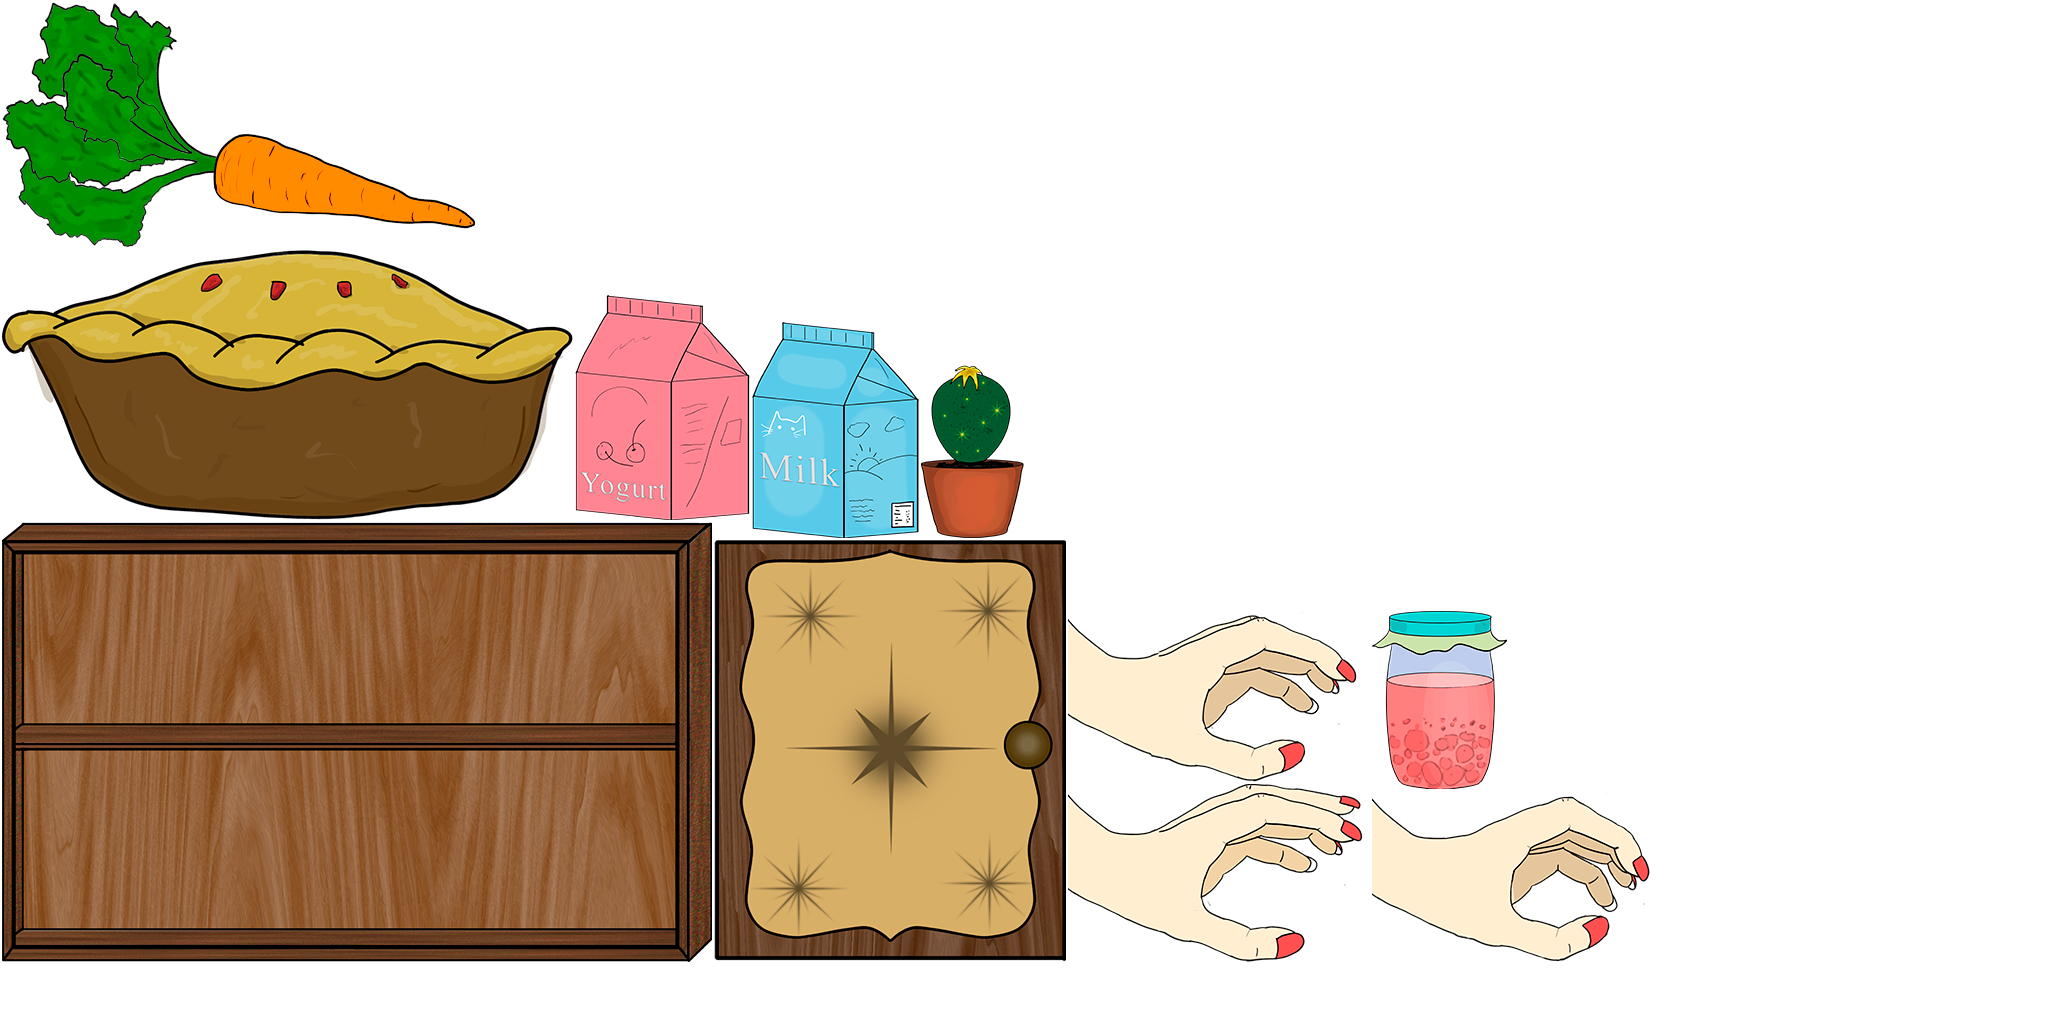
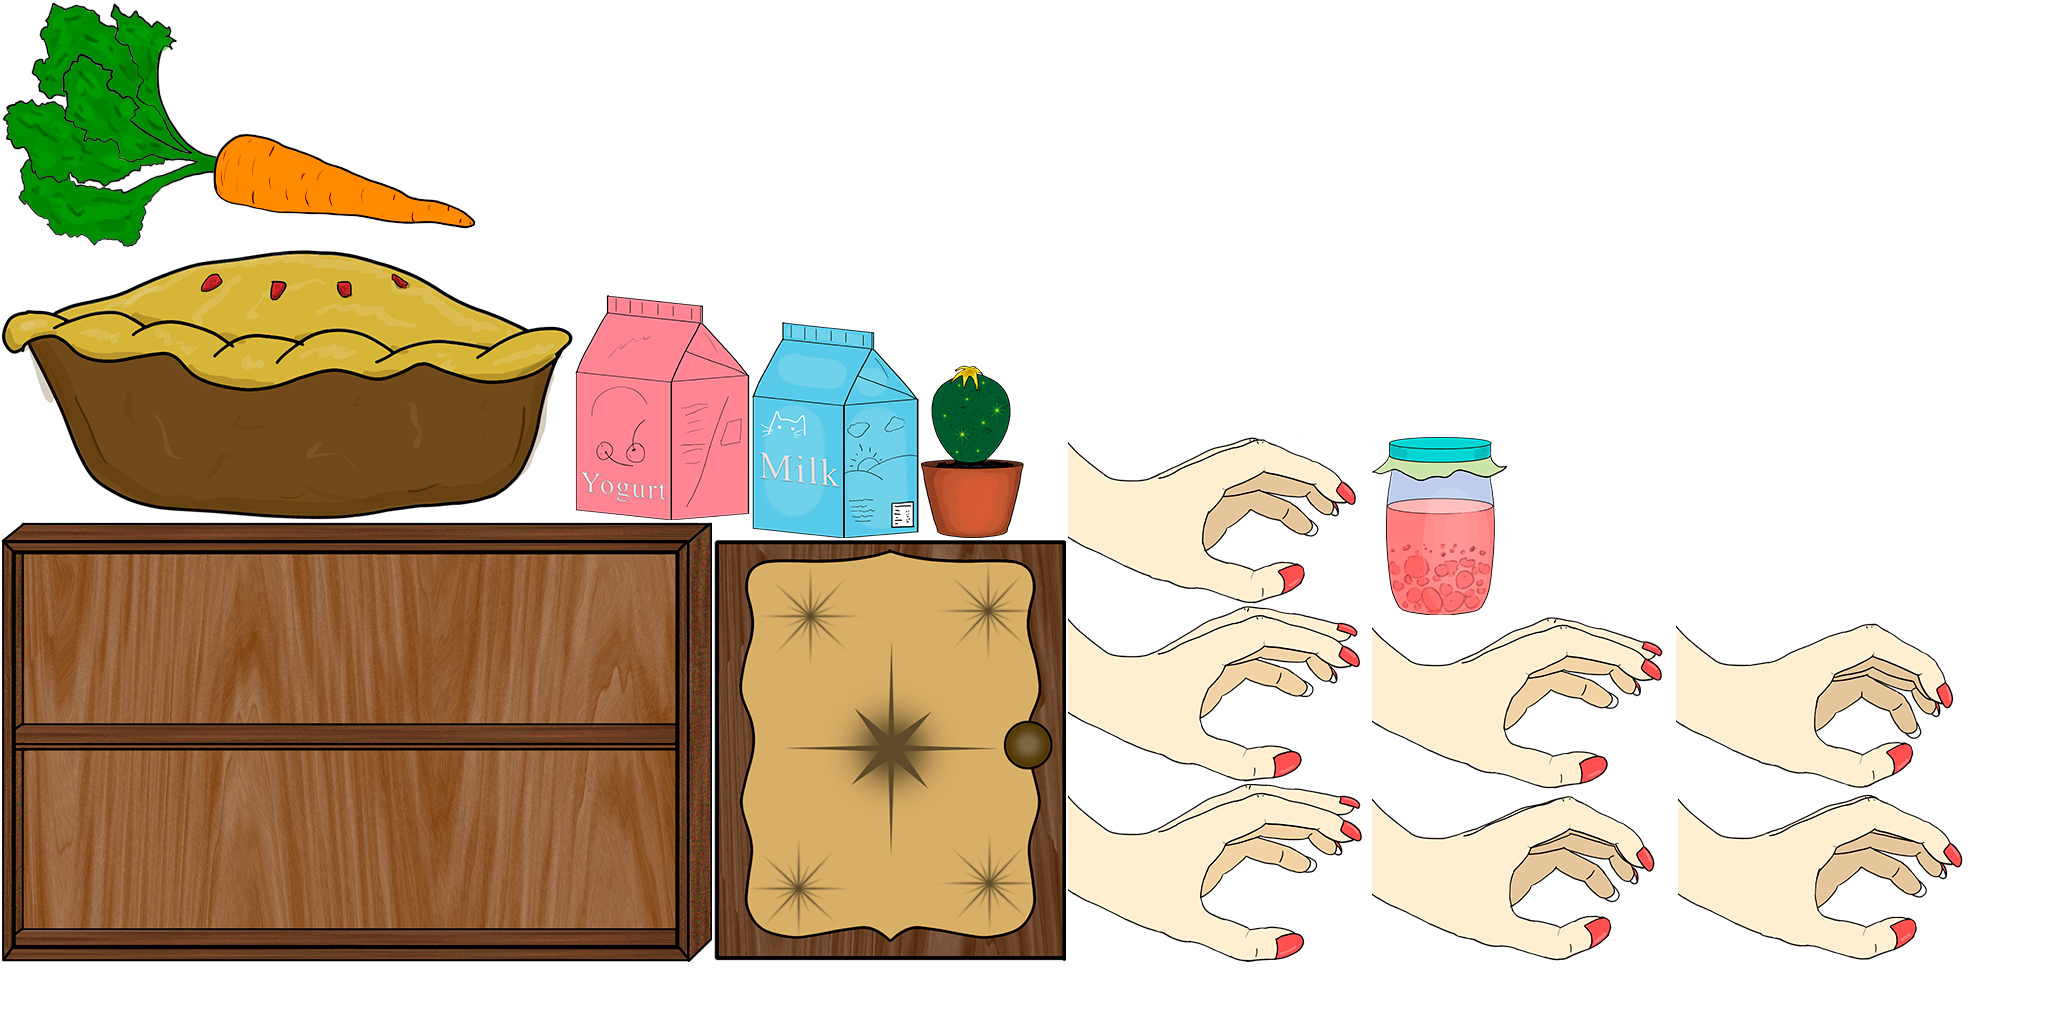
(fix) fix cookie jump
- add more sprites for hand
- change animation
- clean code

diff --git a/core/src/com/mygdx/game/actors/Cookie.kt b/core/src/com/mygdx/game/actors/Cookie.kt
@@ -4,7 +4,6 @@ import com.badlogic.gdx.assets.AssetManager
 import com.badlogic.gdx.graphics.Color
 import com.badlogic.gdx.graphics.g2d.Animation
 import com.badlogic.gdx.graphics.g2d.Batch
-import com.badlogic.gdx.math.Matrix3
 import com.badlogic.gdx.math.Rectangle
 import com.badlogic.gdx.math.Vector2
 import com.badlogic.gdx.scenes.scene2d.Actor
@@ -13,7 +12,6 @@ import com.mygdx.game.data.Assets
 import com.mygdx.game.data.Descriptors
 import com.mygdx.game.impl.Physical
 import com.mygdx.game.impl.Scrollable
-import com.mygdx.game.world.GameWorld
 
 class Cookie(manager : AssetManager,
         startX: Float = ScreenConfig.widthGame/2,
@@ -21,7 +19,7 @@ class Cookie(manager : AssetManager,
 
     val position = Vector2(startX, startY)
     private val velocity = Vector2(0f, 0f)
-    private val velocityJump = 20f
+    private val velocityJump = 50f
 
     private val acceleration = Vector2(0f, -10f)
 
@@ -29,7 +27,7 @@ class Cookie(manager : AssetManager,
     private val jumpUpAnimation = texture.findRegion(Assets.CookieAtlas.JUMP_UP)
     private val jumpDownAnimation = texture.findRegion(Assets.CookieAtlas.JUMP_DOWN)
     private val runRegions = texture.findRegions(Assets.CookieAtlas.RUN)
-    private val runAnimation = Animation(0.1f, runRegions, Animation.PlayMode.LOOP)
+    private val runAnimation = Animation(0.1f, runRegions, Animation.PlayMode.LOOP_PINGPONG)
 
     private val maxJumpHeight = 200
 
@@ -40,11 +38,15 @@ class Cookie(manager : AssetManager,
 
     private val rectangle : Rectangle = Rectangle()
 
-    enum class State{ RUN, JUMP, JUMPING,  FALL, FALLING }
+    enum class State{ RUN, JUMP, FALL}
 
-    private val gravity = -5f
+    private val gravity = -50f
 
-    private var state = State.RUN
+    var state = State.RUN
+
+    private var jumpFlag = false
+    private var startJumpY = 0f
+    private var ground = startY
 
     init {
         updateCoordinates()
@@ -60,39 +62,40 @@ class Cookie(manager : AssetManager,
     override fun act(delta: Float) {
         super.act(delta)
         runTime += delta
-        velocity.add(0f, gravity * runTime)
-        when(state){
-            State.FALL -> {
-                //runTime = 0f
-/*                velocity.add(0f, -velocityJump * delta)
-                if(isUnderGround()){
-                    state = State.RUN
-                    runTime = 0f
-                    velocity.y = 0f
-                    position.y = startY
-                }*/
-            }
-            State.FALLING -> {
-
-            }
-            State.JUMP -> {
-                velocity.add(0f, velocityJump)
-                if(isCeiling()) state = State.JUMPING
-            }
-            State.JUMPING -> {
-                if(isCeiling()) state = State.FALL
-            }
-            State.RUN -> {velocity.y = 0f}
-            }
-
-
+        updateGravity()
+        updateActorState()
         position.add(velocity.cpy().scl(delta))
         updateCoordinates()
         rectangle.set(position.x, position.y, width, height)
     }
 
-    private fun isGround() = position.y == startY
-    private fun isUnderGround() = position.y < startY
+    private fun updateGravity(){
+        velocity.add(0f, gravity * runTime)
+    }
+
+    private fun updateActorState(){
+        when(state){
+            State.FALL -> {
+                if(isGround()) resetState()
+            }
+            State.JUMP -> {
+                if(jumpFlag && isMaxJump().not()){
+                    velocity.add(0f, velocityJump)
+                } else state = State.FALL
+            }
+            State.RUN -> velocity.y = 0f
+        }
+    }
+
+    private fun resetState(){
+        state = State.RUN
+        runTime = 0f
+        velocity.y = 0f
+        position.y = ground
+    }
+
+    private fun isGround() = position.y <= ground
+    private fun isMaxJump() = position.y >= startJumpY + maxJumpHeight
     private fun isCeiling() = position.y >= maxJumpHeight
 
     override fun draw(batch: Batch?, parentAlpha: Float) {
@@ -110,8 +113,18 @@ class Cookie(manager : AssetManager,
     fun isRun() = state == State.RUN
     fun isJump() = state == State.JUMP
 
-    fun onClick() {
-        if(state != State.JUMP) state = State.JUMP
+    fun startJumpForce() {
+        if(state == State.RUN){
+            startJumpY = y
+            state = State.JUMP
+            runTime = 0f
+            jumpFlag = true
+        }
+    }
+
+    fun endJumpForce() {
+        jumpFlag = false
+        startJumpY = 0f
     }
 
     override fun stopMove() {
@@ -122,9 +135,31 @@ class Cookie(manager : AssetManager,
         isStopAnimation = false
     }
 
-    fun resetY(){
-        //if(isJump().not()) y = startY
+    fun checkCollides(obj : RandomTableItem){
+        if(collides(obj)){
+             if(isHigherThen(obj)){
+                 setOnTop(obj)
+            }else{
+                 againstThe(obj)
+            }
+        }
+        if(isAfter(obj) && state == State.RUN){
+            state = State.FALL
+        }
     }
+
+    private fun isAfter(obj : RandomTableItem) : Boolean{
+        val tailObj = obj.x + obj.width
+        return x >= tailObj && x < tailObj + 30f
+    }
+
+    private fun getTailX() = x + width
+    private fun isHigherThen(obj : RandomTableItem) = y > obj.y + obj.height - 30
+    private fun setOnTop(obj : RandomTableItem) {
+        resetState()
+        position.y = obj.y + obj.height
+    }
+    private fun againstThe(obj : RandomTableItem) {position.x = obj.x - width}
 
     override fun getBoundsRect() = rectangle
 }

diff --git a/core/src/com/mygdx/game/actors/RandomTableItem.kt b/core/src/com/mygdx/game/actors/RandomTableItem.kt
@@ -2,8 +2,10 @@ package com.mygdx.game.actors
 
 import com.badlogic.gdx.Gdx
 import com.badlogic.gdx.assets.AssetManager
+import com.badlogic.gdx.graphics.Color
 import com.badlogic.gdx.graphics.g2d.Batch
 import com.badlogic.gdx.graphics.g2d.TextureAtlas
+import com.badlogic.gdx.graphics.glutils.ShapeRenderer
 import com.badlogic.gdx.math.Rectangle
 import com.badlogic.gdx.scenes.scene2d.Actor
 import com.mygdx.game.data.Assets
@@ -35,6 +37,7 @@ class RandomTableItem(manager : AssetManager,
 
     var callbackGoThrough : Callback? = null
     var isScored = false
+    val shape = ShapeRenderer()
 
     init {
         updateCoordinates()
@@ -46,7 +49,7 @@ class RandomTableItem(manager : AssetManager,
 
         checkDistance()
         if(startAct){
-            checkCollides()
+            cookie.checkCollides(this)
             updateCoordinates()
             scroller.update(delta)
             setBound()
@@ -60,16 +63,6 @@ class RandomTableItem(manager : AssetManager,
                 callback!!.call()
             }
         }
-    }
-
-    private fun checkCollides(){
-        if(collides(cookie)){
-            if(cookie.y <= y + height){
-                cookie.position.x = x - cookie.width
-            }else{
-                cookie.y = y + height
-            }
-        }else cookie.resetY()
     }
 
     private fun checkDistance(){
@@ -98,15 +91,14 @@ class RandomTableItem(manager : AssetManager,
     }
 
     private fun getRandomItemRegion(): TextureAtlas.AtlasRegion{
-        return when(rand.nextInt(9)){
-            1 -> texture.findRegion(Assets.EnvironmentAtlas.GLASS)
-            2 -> texture.findRegion(Assets.EnvironmentAtlas.ORANGE)
-            3 -> texture.findRegion(Assets.EnvironmentAtlas.LIME)
-            4 -> texture.findRegion(Assets.EnvironmentAtlas.APPLE)
-            5 -> texture.findRegion(Assets.EnvironmentAtlas.CARROT)
-            6 -> texture.findRegion(Assets.EnvironmentAtlas.PIE)
-            7 -> texture.findRegion(Assets.EnvironmentAtlas.MILK_BOX)
-            8 -> texture.findRegion(Assets.EnvironmentAtlas.YOGURT_BOX)
+        return when(rand.nextInt(4)){
+            1 -> texture.findRegion(Assets.EnvironmentAtlas.LIME)
+            2 -> texture.findRegion(Assets.EnvironmentAtlas.APPLE)
+            3 -> texture.findRegion(Assets.EnvironmentAtlas.MILK_BOX)
+            4 -> texture.findRegion(Assets.EnvironmentAtlas.YOGURT_BOX)
+            //1 -> texture.findRegion(Assets.EnvironmentAtlas.GLASS)
+            //6 -> texture.findRegion(Assets.EnvironmentAtlas.PIE)
+            //5 -> texture.findRegion(Assets.EnvironmentAtlas.CARROT)
             else -> texture.findRegion(Assets.EnvironmentAtlas.ORANGE)
         }
     }
@@ -120,6 +112,12 @@ class RandomTableItem(manager : AssetManager,
 
     override fun draw(batch: Batch?, parentAlpha: Float) {
         if(startAct) batch!!.draw(region, x, y, region.originalWidth.toFloat(), region.originalHeight.toFloat())
+/*        if(startAct){
+            shape.setAutoShapeType(true)
+            shape.begin()
+            shape.rect(x, y, width, height)
+            shape.end()
+        }*/
     }
 
     private fun isGoThrough(actor: Actor) {

diff --git a/core/src/com/mygdx/game/world/GameWorld.kt b/core/src/com/mygdx/game/world/GameWorld.kt
@@ -5,7 +5,6 @@ import com.badlogic.gdx.assets.AssetManager
 import com.badlogic.gdx.math.Vector2
 import com.badlogic.gdx.scenes.scene2d.Actor
 import com.badlogic.gdx.scenes.scene2d.InputEvent
-import com.badlogic.gdx.scenes.scene2d.InputListener
 import com.badlogic.gdx.scenes.scene2d.Stage
 import com.badlogic.gdx.scenes.scene2d.utils.ClickListener
 import com.badlogic.gdx.utils.Array
@@ -43,8 +42,13 @@ class GameWorld(private val manager : AssetManager) {
         changeScore()
         stage.addListener(object : ClickListener(){
             override fun touchDown(event: InputEvent?, x: Float, y: Float, pointer: Int, button: Int): Boolean {
-                cookie.onClick()
+                cookie.startJumpForce()
                 return super.touchDown(event, x, y, pointer, button)
+            }
+
+            override fun touchUp(event: InputEvent?, x: Float, y: Float, pointer: Int, button: Int) {
+                cookie.endJumpForce()
+                super.touchUp(event, x, y, pointer, button)
             }
         }
         )

diff --git a/core/src/com/mygdx/game/actors/Hand.kt b/core/src/com/mygdx/game/actors/Hand.kt
@@ -17,7 +17,7 @@ class Hand(manager : AssetManager) : Actor() {
     private val texture = manager.get(Descriptors.environment)
     private val handRegion = texture.findRegion(Assets.EnvironmentAtlas.HAND)
     private val handRegions = texture.findRegions(Assets.EnvironmentAtlas.HAND)
-    private val handAnim = Animation(0.3f,handRegions, Animation.PlayMode.LOOP_RANDOM)
+    private val handAnim = Animation(0.1f,handRegions, Animation.PlayMode.LOOP_PINGPONG)
 
     private val random = Random()
     private var runTime = 0f

diff --git a/core/src/com/mygdx/game/data/Assets.kt b/core/src/com/mygdx/game/data/Assets.kt
@@ -40,7 +40,7 @@ class Assets {
             const val TABLE = "table"
             const val SHADOW = "shadow"
             const val GLASS = "glass"
-            const val ORANGE = "glass"
+            const val ORANGE = "orange"
             const val LIME = "lime"
             const val APPLE = "apple"
             const val CARROT = "carrot"
